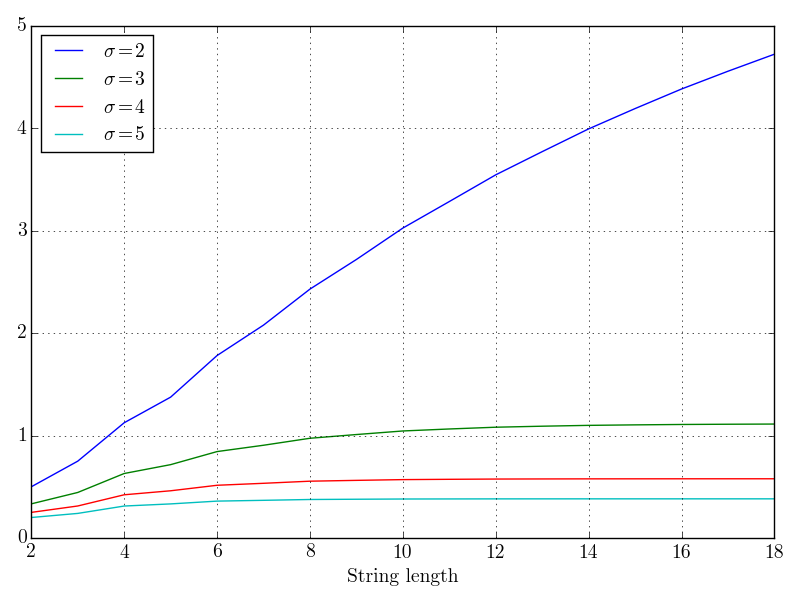
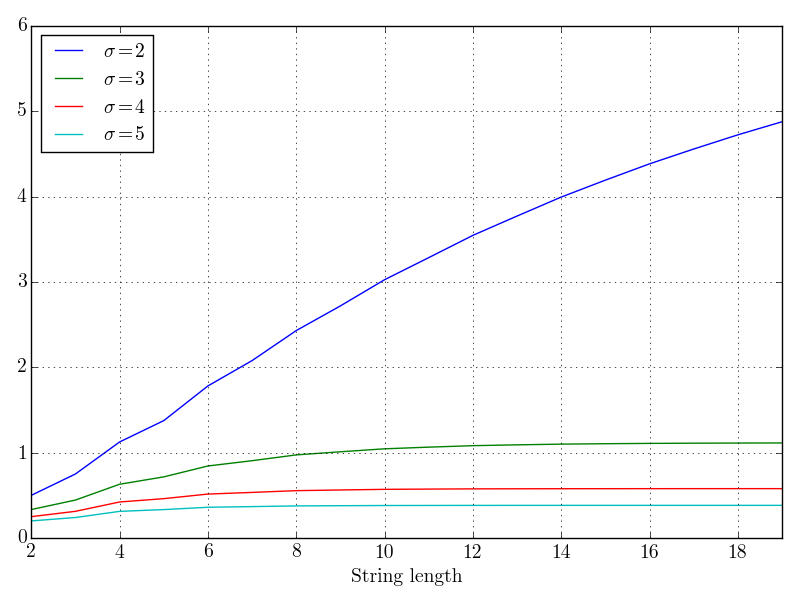
figures

diff --git a/src/py/graph.py b/src/py/graph.py
@@ -28,7 +28,7 @@ dashes = [
     [1, 1],
 ]
 
-MAX_COMPOSITE_LENGTH = 17
+MAX_COMPOSITE_LENGTH = 19
 
 Entity = namedtuple('Entity', ['name', 'readable_name', 'symbol'])
 
